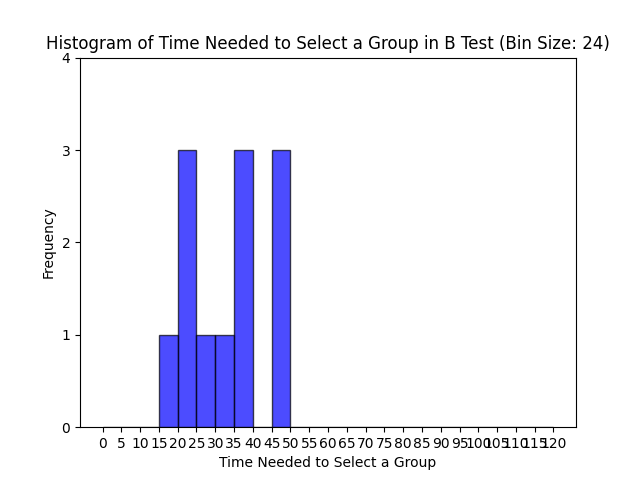
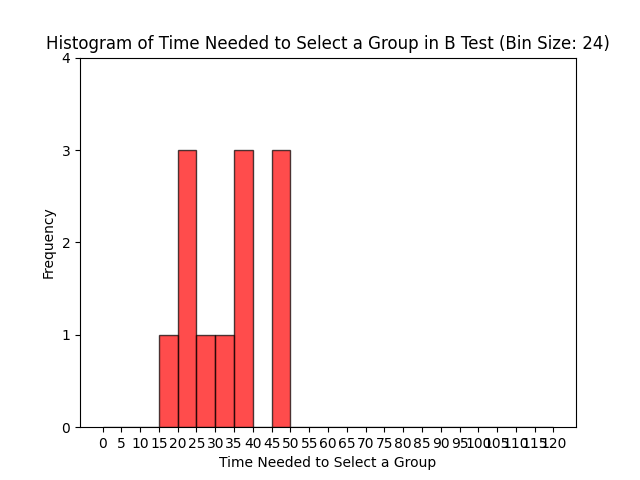
data analysis

Changed region(s): [[0.25, 0.3125, 0.4688, 0.9062]]

diff --git a/code/study_analysis/data_analysis.py b/code/study_analysis/data_analysis.py
@@ -155,7 +155,7 @@ plt.savefig(path_to_analysis + '/histogram_time_A')
 plt.close()
 
 # B
-plt.hist(df['time_b'], range=(0,120), bins=number_of_bins, color='blue', edgecolor='black', alpha=0.7)
+plt.hist(df['time_b'], range=(0,120), bins=number_of_bins, color='red', edgecolor='black', alpha=0.7)
 plt.xticks(np.arange(0,121,5))
 plt.yticks(np.arange(0, 5, 1)) 
 plt.xlabel('Time Needed to Select a Group')
@@ -207,7 +207,67 @@ plt.close()
 
 ##### 3. Dependent variable: Amount of interactions the user has to do ()
 
-# to do
+number_of_bins = 18
+
+# A
+plt.hist(df['gesture_count_a'], range=(0,91), bins=number_of_bins, color='blue', edgecolor='black', alpha=0.7)
+plt.xticks(np.arange(0,90,5))
+plt.yticks(np.arange(0, 6, 1)) 
+plt.xlabel('Gesture Count')
+plt.ylabel('Frequency')
+plt.title(f'Histogram of Gesture Count in A Test (Bin Size: {number_of_bins})')
+
+plt.savefig(path_to_analysis + '/histogram_gesture_count_A')
+plt.close()
+
+# B
+plt.hist(df['gesture_count_b'], range=(0,91), bins=number_of_bins, color='red', edgecolor='black', alpha=0.7)
+plt.xticks(np.arange(0,90,5))
+plt.yticks(np.arange(0, 6, 1)) 
+plt.xlabel('Gesture Count')
+plt.ylabel('Frequency')
+plt.title(f'Histogram of Gesture Count in B Test (Bin Size: {number_of_bins})')
+
+plt.savefig(path_to_analysis + '/histogram_gesture_count_B')
+plt.close()
+
+
+# Do Shapiro-Wilke Test
+shapiro_res_gesture_count_a = shapiro(df['gesture_count_a'])
+shapiro_res_gesture_count_b = shapiro(df['gesture_count_b'])
+
+
+# Do Levene Test
+# Separate the data into the groups
+group_a = df[df['a_or_b'] == 'a']
+group_b = df[df['a_or_b'] == 'b']
+
+# Perform Levene's test for 'sus_a'
+levene_test_gesture_count_a = levene(group_a['gesture_count_a'], group_b['gesture_count_a'])
+
+# Perform Levene's test for 'sus_b'
+levene_test_gesture_count_b = levene(group_a['gesture_count_b'], group_b['gesture_count_b'])
+
+# Perform levene test differently:
+levene_test_gesture_count_both = levene(df['gesture_count_a'],df['gesture_count_b'])
+
+
+# Do Wilcoxon Signed Rank Test
+wilcoxon_res_gesture_count = wilcoxon(df['gesture_count_a'], df['gesture_count_b'])
+
+
+# Calculate useful metrics
+avg_gesture_count_value_a = df['gesture_count_a'].mean()
+avg_gesture_count_value_b = df['gesture_count_b'].mean()
+std_gesture_count_value_a = df['gesture_count_a'].std()
+std_gesture_count_value_b = df['gesture_count_b'].std()
+
+mean_gesture_counts = [avg_gesture_count_value_a, avg_gesture_count_value_b]
+plt.bar(['mean gesturecount a', 'mean gesture count b'], mean_gesture_counts, color=['blue', 'red'])
+plt.ylabel('completion time in seconds')
+plt.savefig(path_to_analysis + '/mean_gesture_count.png')
+plt.close()
+
 
 
 
@@ -289,4 +349,37 @@ with open(path_to_analysis + '/results.md', 'w') as file:
     file.write('Average time_a: ' + str(np.round(avg_time_value_a,3)) + ' and standard deviation: ' + str(np.round(std_time_value_a,3)) + '\n\n')
     file.write('Average time_b: ' + str(np.round(avg_time_value_b,3)) + ' and standard deviation: ' + str(np.round(std_time_value_b,3)) + '\n\n')
     html_img_txt = '<img src="mean_times.png" alt="Mean Times" width="400"/>'
+    file.write(html_img_txt + '\n\n')
+
+
+
+    file.write('### Third Dependent Variable: Gesture Count\n')
+    file.write('NH3: The swiping feature instead of the button accept feature has no impact on the amount of interactions (i.e., taps/swipes) the user has to do.\n\n')
+
+    file.write('#### Distribution of Gesture Counts in A Test\n')
+    html_img_txt = '<img src="histogram_gesture_count_A.png" alt="Distribution of Gesute Counts in A Test" width="400"/>'
+    file.write(html_img_txt + '\n\n')
+
+    file.write('Result of Shapiro-Wilke Test A\n')
+    file.write('p-value: ' + str(round(shapiro_res_gesture_count_a[1],3)) + '\n')
+
+    file.write('#### Distribution of Gesture Counts in B Test\n')
+    html_img_txt = '<img src="histogram_gesture_count_B.png" alt="Distribution of Gesture Counts in B Test" width="400"/>'
+    file.write(html_img_txt + '\n\n')
+
+    file.write('Result of Shapiro-Wilke Test B\n')
+    file.write('p-value: ' + str(round(shapiro_res_time_b[1],3)) + '\n')
+    
+    file.write('#### Results of Levene Tests:\n\n')
+    file.write('p val of Levene test for gesture_count_a (started with A vs started with B): ' + str(np.round(levene_test_gesture_count_a[1],3)) + '\n\n')
+    file.write('p val of Levene test for gesture_count_b (started with A vs started with B): ' + str(np.round(levene_test_gesture_count_b[1],3)) + '\n\n')
+    file.write('p val of Levene test for gesture_count_a vs gesture_count_b: ' + str(np.round(levene_test_gesture_count_both[1],3)) + '\n\n')
+
+    file.write('#### Result of Wilcoxon Signed Rank Test:\n\n')
+    file.write('p val of Wilcoxon Test on gesture_count_a vs gesture_count_b: ' + str(np.round(wilcoxon_res_gesture_count[1],3)) + '\n\n')
+    
+    file.write('#### Other Useful Metrics:\n\n')
+    file.write('Average gesture_count_a: ' + str(np.round(avg_gesture_count_value_a,3)) + ' and standard deviation: ' + str(np.round(std_gesture_count_value_a,3)) + '\n\n')
+    file.write('Average gesture_count_b: ' + str(np.round(avg_gesture_count_value_b,3)) + ' and standard deviation: ' + str(np.round(std_gesture_count_value_b,3)) + '\n\n')
+    html_img_txt = '<img src="mean_gesture_count.png" alt="Mean Gesture Counts" width="400"/>'
     file.write(html_img_txt + '\n\n')

diff --git a/code/study_analysis/results.md b/code/study_analysis/results.md
@@ -77,3 +77,36 @@ Average time_b: 32.667 and standard deviation: 10.43
 
 <img src="mean_times.png" alt="Mean Times" width="400"/>
 
+### Third Dependent Variable: Gesture Count
+NH3: The swiping feature instead of the button accept feature has no impact on the amount of interactions (i.e., taps/swipes) the user has to do.
+
+#### Distribution of Gesture Counts in A Test
+<img src="histogram_gesture_count_A.png" alt="Distribution of Gesute Counts in A Test" width="400"/>
+
+Result of Shapiro-Wilke Test A
+p-value: 0.022
+#### Distribution of Gesture Counts in B Test
+<img src="histogram_gesture_count_B.png" alt="Distribution of Gesture Counts in B Test" width="400"/>
+
+Result of Shapiro-Wilke Test B
+p-value: 0.329
+#### Results of Levene Tests:
+
+p val of Levene test for gesture_count_a (started with A vs started with B): 0.31
+
+p val of Levene test for gesture_count_b (started with A vs started with B): 0.694
+
+p val of Levene test for gesture_count_a vs gesture_count_b: 0.093
+
+#### Result of Wilcoxon Signed Rank Test:
+
+p val of Wilcoxon Test on gesture_count_a vs gesture_count_b: 0.052
+
+#### Other Useful Metrics:
+
+Average gesture_count_a: 28.583 and standard deviation: 20.002
+
+Average gesture_count_b: 17.0 and standard deviation: 6.252
+
+<img src="mean_gesture_count.png" alt="Mean Gesture Counts" width="400"/>
+
